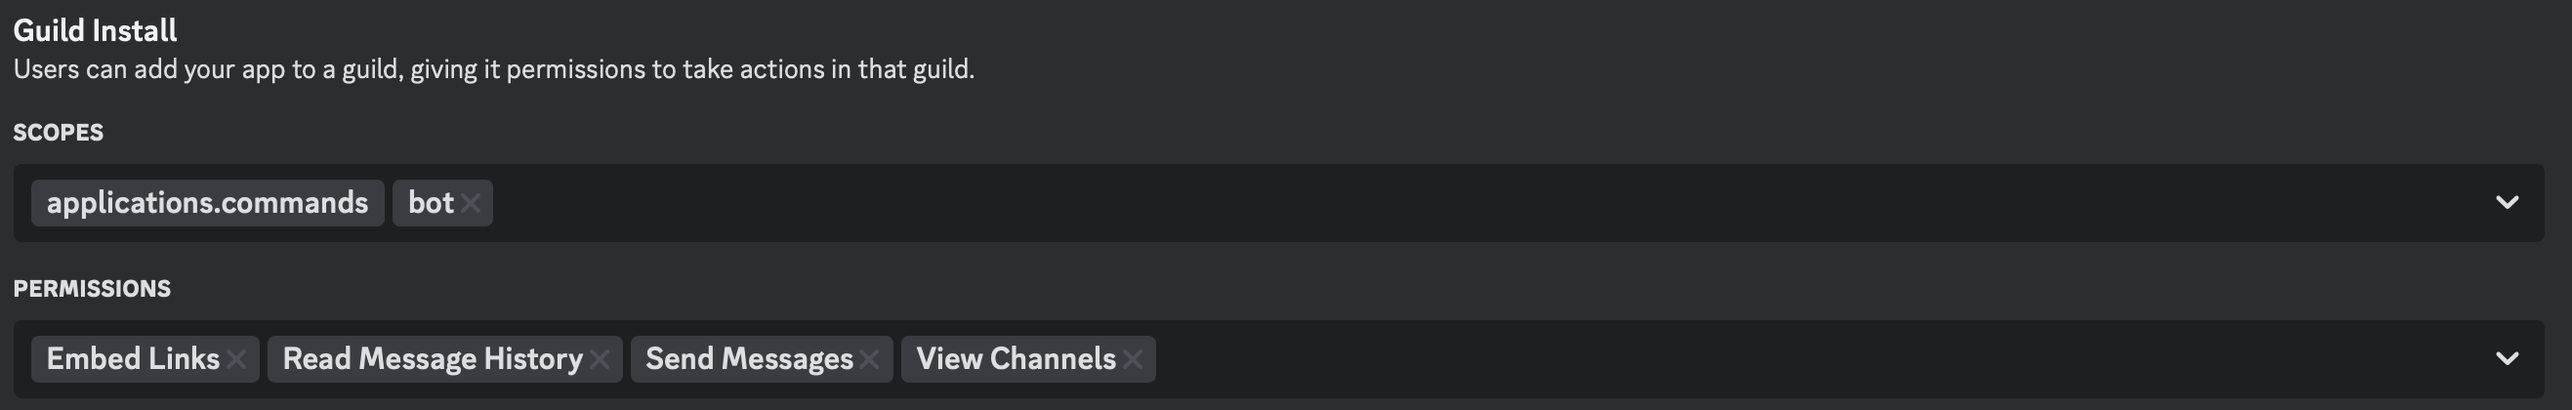
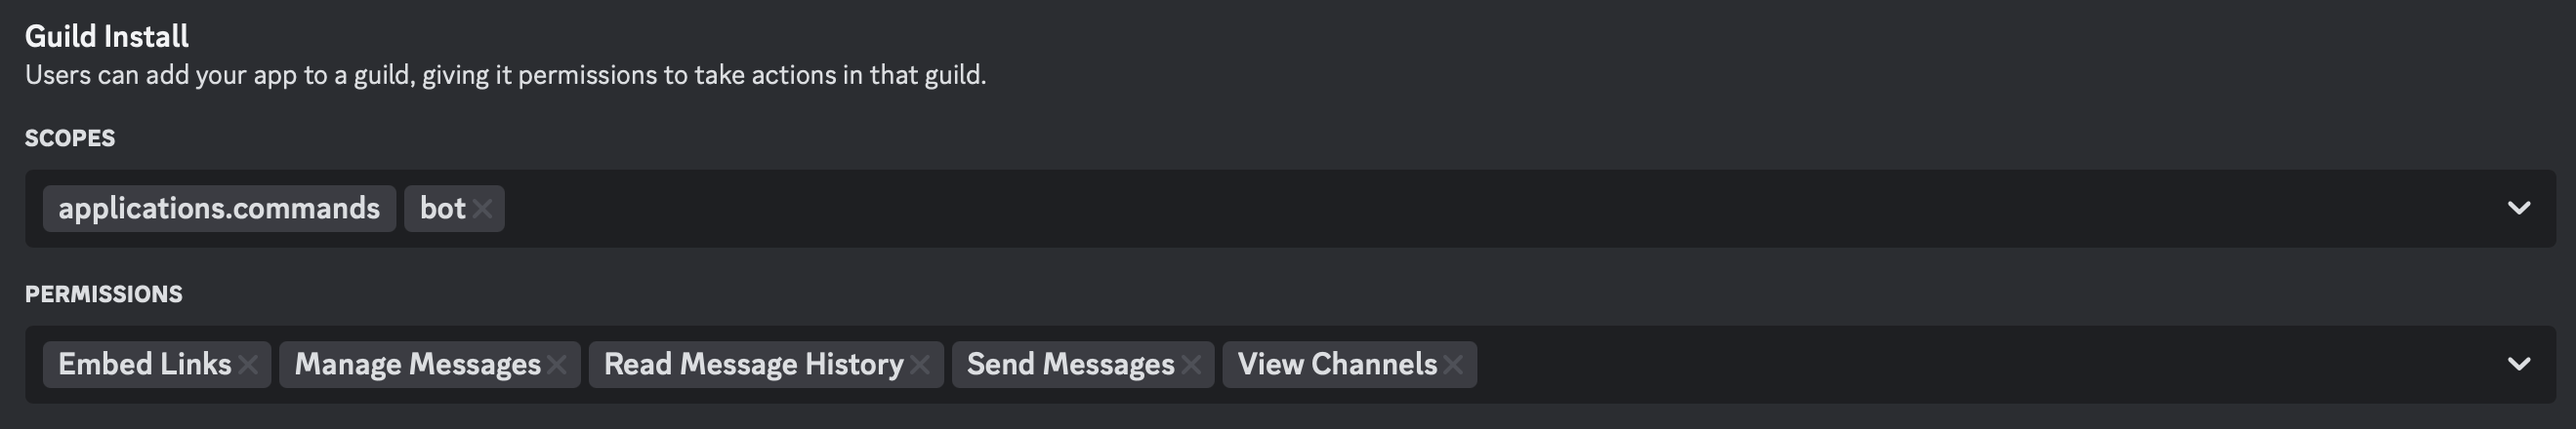
added DM subscription for when the code changes
some refactor

diff --git a/bg3_lobby_bot.py b/bg3_lobby_bot.py
@@ -18,7 +18,7 @@ CHANNEL_ID = int(os.getenv('CHANNEL_ID', '0'))
 BG3_NAME = "Baldur's Gate 3"
 DATA_FILE = 'code_data.json'
 LOG_FILE = 'bg3_lobby_bot.log'
-BOT_VERSION = '1.0.0'
+BOT_VERSION = '1.1.0'
 
 # Logging setup: rotating file and console
 logger = logging.getLogger('bg3_lobby_bot')
@@ -54,10 +54,16 @@ def save_data(data):
     loop = asyncio.get_event_loop()
     _save_handle = loop.call_later(2, lambda: _immediate_save(data))
 
-# Load utility with schema validation
+# Load utility with schema validation and subscribers list
 def load_data():
-    default = {'code': None, 'timestamp': None, 'party_info': None,
-               'message_id': None, 'ping_message_id': None}
+    default = {
+        'code': None,
+        'timestamp': None,
+        'party_info': None,
+        'message_id': None,
+        'ping_message_id': None,
+        'subscribers': []
+    }
     try:
         with open(DATA_FILE, 'r') as f:
             raw = json.load(f)
@@ -65,12 +71,17 @@ def load_data():
         logger.warning(f"Data error ({e}), using defaults.")
         return default.copy()
     if not isinstance(raw, dict):
-        logger.warning("Data file not dict, resetting.")
+        logger.warning("Data file not a dict, resetting.")
         return default.copy()
     data = default.copy()
     for k, v in raw.items():
         if k in data:
             data[k] = v
+    subs = data.get('subscribers')
+    if not isinstance(subs, list):
+        data['subscribers'] = []
+    else:
+        data['subscribers'] = [int(u) for u in subs if isinstance(u, (int, str))]
     return data
 
 # Bot setup
@@ -84,7 +95,7 @@ data = load_data()
 _lobby_channel: discord.TextChannel = None
 _lobby_perms = None
 
-# Helper: parse party info from presence activities
+# Helper: parse party info
 def parse_party_info(activities) -> str | None:
     """
     Inspect a list of activities, return a 'current/max' party string if BG3 party detected.
@@ -92,18 +103,16 @@ def parse_party_info(activities) -> str | None:
     for act in activities:
         if getattr(act, 'name', None) == BG3_NAME and getattr(act, 'party', None):
             party = act.party
-            # party may be dict or object
-            size = None
-            if isinstance(party, dict):
-                size = party.get('size')
-            else:
-                size = getattr(party, 'size', None)
-            if size and isinstance(size, (list, tuple)) and len(size) == 2:
+            size = party.get('size') if isinstance(party, dict) else getattr(party, 'size', None)
+            if isinstance(size, (list, tuple)) and len(size) == 2:
                 return f"{size[0]}/{size[1]}"
     return None
 
 # Helper: build the embed
 def build_embed():
+    """
+    Build the embed for the lobby channel.
+    """
     code_val = data.get('code') or 'None'
     party_info = data.get('party_info') or 'N/A'
     ts = data.get('timestamp')
@@ -127,17 +136,17 @@ def build_embed():
         embed.add_field(name="Party Status", value=party_info, inline=True)
     if ts:
         embed.add_field(name="Last updated", value=f"<t:{ts}:f>", inline=False)
-    embed.set_footer(text=f"Use `/party info` • Bot v{BOT_VERSION}")
+    embed.set_footer(text=f"Use /party info • Bot v{BOT_VERSION}")
     return embed
 
-# Helper: send or edit message using cached channel & perms
+# Helper: send or edit message
 async def send_or_edit_message(embed):
     global _lobby_channel, _lobby_perms
     if not _lobby_channel:
         logger.error("Lobby channel not initialized.")
         return
-    if not _lobby_perms.send_messages or not _lobby_perms.embed_links:
-        logger.error("Missing send/embed permissions in lobby channel.")
+    if not (_lobby_perms.send_messages and _lobby_perms.embed_links):
+        logger.error("Missing permissions in lobby channel.")
         return
     msg_id = data.get('message_id')
     if msg_id:
@@ -162,8 +171,26 @@ async def update_message():
     embed = build_embed()
     await send_or_edit_message(embed)
 
-# Slash commands
-code_group = app_commands.Group(name="party", description="Manage BG3 multiplayer party info")
+# Slash commands group
+code_group = app_commands.Group(name="party", description="Manage BG3 party info")
+
+@code_group.command(name="subscribe", description="Subscribe for code change DMs")
+async def subscribe(interaction: discord.Interaction):
+    uid = interaction.user.id
+    if uid in data['subscribers']:
+        return await interaction.response.send_message("🔔 You are already subscribed.", ephemeral=True)
+    data['subscribers'].append(uid)
+    save_data(data)
+    await interaction.response.send_message("🔔 You will now receive DMs when the code changes. You may unsubscribe at any time by using `/party unsubscribe`.", ephemeral=True)
+
+@code_group.command(name="unsubscribe", description="Unsubscribe from code change DMs")
+async def unsubscribe(interaction: discord.Interaction):
+    uid = interaction.user.id
+    if uid not in data['subscribers']:
+        return await interaction.response.send_message("🔕 You are not subscribed. You may subscribe by using `/party subscribe`.", ephemeral=True)
+    data['subscribers'].remove(uid)
+    save_data(data)
+    await interaction.response.send_message("🔕 You have been unsubscribed. You may resubscribe at any time.", ephemeral=True)
 
 @code_group.command(name="set", description="Set the direct connection code for BG3 multiplayer")
 async def code_set(interaction: discord.Interaction, code: str):
@@ -171,8 +198,10 @@ async def code_set(interaction: discord.Interaction, code: str):
         return await interaction.response.send_message("❌ Only the host can use this command.", ephemeral=True)
     if not (code.isalnum() and len(code) == 14):
         return await interaction.response.send_message("❌ Code must be 14 alphanumeric (e.g. 72ARXMVCQG35Z6).", ephemeral=True)
+    old_code = data.get('code')
     data['code'] = code
     data['timestamp'] = int(datetime.now().timestamp())
+    data['party_info'] = data.get('party_info')
     if data.get('ping_message_id'):
         try:
             old = await _lobby_channel.fetch_message(data['ping_message_id'])
@@ -182,6 +211,15 @@ async def code_set(interaction: discord.Interaction, code: str):
     data['ping_message_id'] = None
     save_data(data)
     await update_message()
+
+    # DM subscribers if code changed
+    if old_code != code:
+        for uid in data['subscribers']:
+            try:
+                user = await bot.fetch_user(uid)
+                await user.send(f"🔑 New BG3 party code: `{code}`")
+            except discord.Forbidden:
+                logger.warning(f"Cannot DM user {uid}")
     await interaction.response.send_message(f"✅ Code set to **{code}**", ephemeral=True)
 
 @code_group.command(name="info", description="Get the current BG3 multiplayer connection code and party status")
@@ -201,14 +239,20 @@ async def code_info(interaction: discord.Interaction):
         lines.append("👥 **Party:** N/A")
     if ts:
         lines.append(f"⏰ **Last updated:** <t:{ts}:f>")
+    # Subscription status hint
+    if interaction.user.id in data['subscribers']:
+        lines.append("🔔 You are subscribed to code updates. Use `/party unsubscribe` to opt out.")
+    else:
+        lines.append("ℹ Use `/party subscribe` to receive DMs when the code changes.")
     await interaction.response.send_message("\n".join(lines), ephemeral=True)
 
 @code_group.command(name="clear", description="Clear the current BG3 multiplayer connection code")
 async def code_clear(interaction: discord.Interaction):
     if interaction.user.id != USER_ID:
-        return await interaction.response.send_message("❌ Only owner.", ephemeral=True)
+        return await interaction.response.send_message("❌ Only the host can clear the code.", ephemeral=True)
     data['code'] = None
     data['timestamp'] = int(datetime.now().timestamp())
+    data['party_info'] = None
     if data.get('ping_message_id'):
         try:
             old = await _lobby_channel.fetch_message(data['ping_message_id'])
@@ -220,7 +264,7 @@ async def code_clear(interaction: discord.Interaction):
     await update_message()
     await interaction.response.send_message("✅ Code cleared.", ephemeral=True)
 
-# Presence event using helper
+# Presence event
 @bot.event
 async def on_presence_update(before: discord.Member, after: discord.Member):
     if after.id != USER_ID:
@@ -230,9 +274,7 @@ async def on_presence_update(before: discord.Member, after: discord.Member):
     if new_party and not was_in:
         data['party_info'] = new_party
         if _lobby_perms.send_messages:
-            msg = await _lobby_channel.send(
-                f"<@{USER_ID}> please set code via `/party set` (Party: {new_party})"
-            )
+            msg = await _lobby_channel.send(f"<@{USER_ID}> please set code via `/party set` (Party: {new_party})")
             data['ping_message_id'] = msg.id
         save_data(data)
     elif not new_party and was_in:

diff --git a/README.md b/README.md
@@ -21,6 +21,7 @@ You can host this bot yourself! Just create a new app ***and bot*** on the Disco
 
 - View Channels
 - Send Messages
+- Manage Messages
 - Read Message History
 - Embed Links
 
